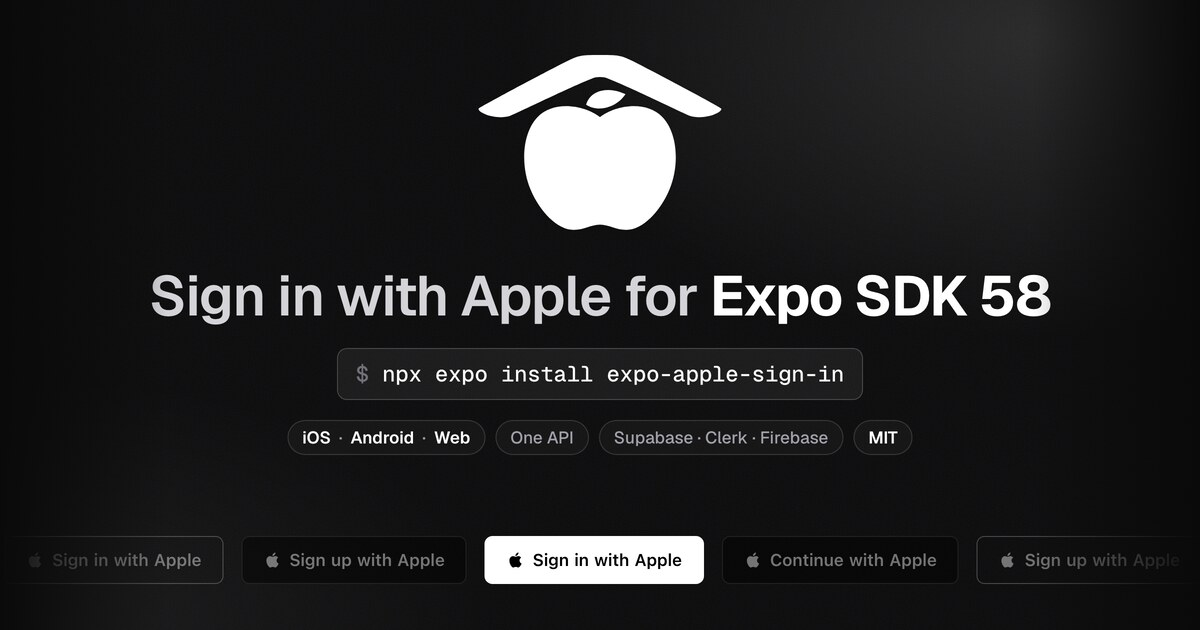
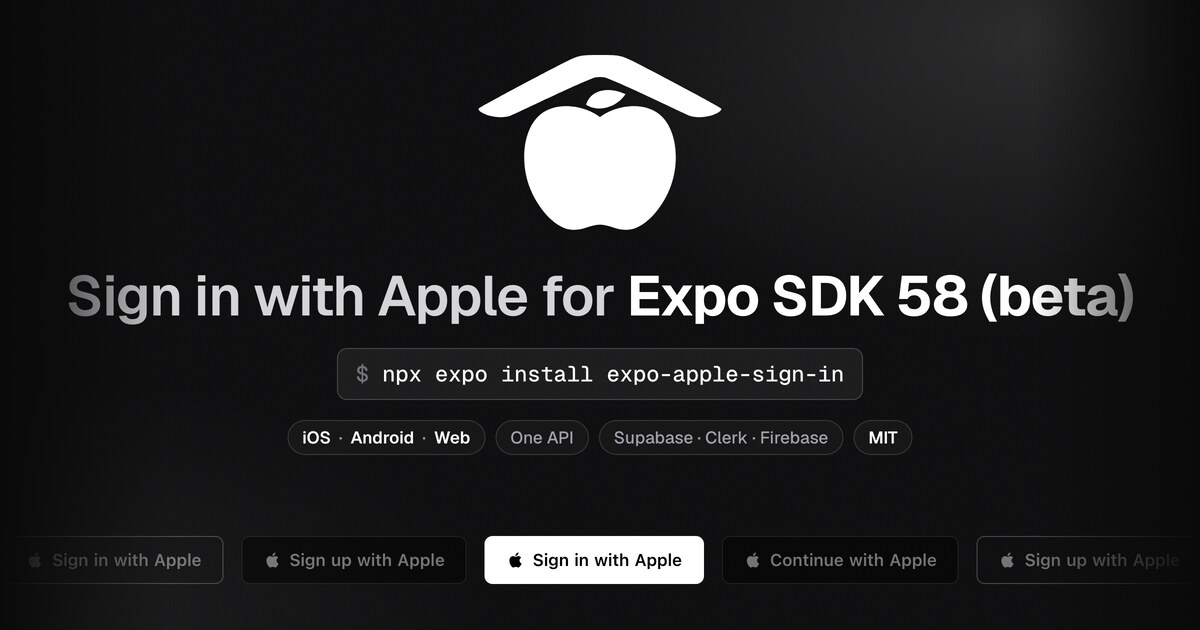
docs: mark sdk 58 beta and add demo

Changed region(s): [[0.0617, 0.4222, 0.9558, 0.5127]]

diff --git a/docs/.vitepress/og.html b/docs/.vitepress/og.html
@@ -24,7 +24,7 @@ h1 b{color:#fff;font-weight:700}
 </style></head><body><div class="bg"></div><div class="grain"></div>
 <div style="position:absolute;left:0;right:0;top:50px;text-align:center">
   <img src="../public/logo-dark.svg" style="width:252px;display:inline-block" alt="">
-  <h1 style="font-size:56px;margin-top:28px">Sign in with Apple for <b>Expo SDK 58</b></h1>
+  <h1 style="font-size:56px;margin-top:28px">Sign in with Apple for <b>Expo SDK 58 (beta)</b></h1>
   <div class="cmd" style="margin-top:24px"><span>$</span> npx expo install expo-apple-sign-in</div>
   <div style="display:flex;gap:10px;margin-top:20px;justify-content:center"><span class="chip"><b>iOS</b> · <b>Android</b> · <b>Web</b></span><span class="chip">One API</span><span class="chip">Supabase · Clerk · Firebase</span><span class="chip"><b>MIT</b></span></div>
 </div>

diff --git a/tests/docs.e2e.ts b/tests/docs.e2e.ts
@@ -5,8 +5,8 @@ test('home page', async ({ app, screen, browser }) => {
   await app.open('/')
 
   await expect(browser).toHaveTitle(/Expo Apple Sign In/, { timeout: 30_000 })
-  await expect(screen.getByText('Sign in with Apple for Expo SDK 58')).toBeVisible()
-  await expect(screen.getByText('Requires Expo SDK 58.')).toBeVisible()
+  await expect(screen.getByText('Sign in with Apple for Expo SDK 58 (beta)')).toBeVisible()
+  await expect(screen.getByText('Requires Expo SDK 58 (beta).')).toBeVisible()
 })
 
 test('introduction page', async ({ app, screen, browser }) => {

diff --git a/README.md b/README.md
@@ -8,33 +8,34 @@
 <h1 align="center">expo-apple-sign-in</h1>
 
 <p align="center">
-  <strong>Sign in with Apple for Expo SDK 58.</strong><br />
+  <strong>Sign in with Apple for Expo SDK 58 (beta).</strong><br />
   One API and one Apple-style button for iOS, Android and web, with adapters for Supabase, Clerk and Firebase
 </p>
 
 <p align="center">
   <a href="https://www.npmjs.com/package/expo-apple-sign-in"><img src="https://img.shields.io/npm/v/expo-apple-sign-in?style=flat-square" alt="npm version" /></a>
   <a href="LICENSE"><img src="https://img.shields.io/badge/license-MIT-green?style=flat-square" alt="License: MIT" /></a>
-  <a href="https://expo.dev/"><img src="https://img.shields.io/badge/Expo%20SDK-58-000020?style=flat-square&logo=expo&logoColor=white" alt="Expo SDK 58" /></a>
+  <a href="https://expo.dev/"><img src="https://img.shields.io/badge/Expo%20SDK-58%20%28beta%29-000020?style=flat-square&logo=expo&logoColor=white" alt="Expo SDK 58 (beta)" /></a>
   <img src="https://img.shields.io/badge/platforms-iOS%20%7C%20Android%20%7C%20Web-4630EB?style=flat-square" alt="Platforms: iOS, Android, Web" />
 </p>
 
 <p align="center">
   <a href="https://exsi.smartsquad.io/">Documentation</a> ·
   <a href="https://exsi.smartsquad.io/getting-started/quick-start.html">Quick start</a> ·
+  <a href="#demo">Demo</a> ·
   <a href="https://exsi.smartsquad.io/providers/supabase.html">Providers</a> ·
   <a href="https://exsi.smartsquad.io/comparison.html">Comparison</a> ·
   <a href="https://github.com/smartsquad/expo-apple-sign-in/blob/main/CHANGELOG.md">Changelog</a>
 </p>
 
 <p align="center">
-  <img src="docs/public/og.png" alt="expo-apple-sign-in. Sign in with Apple for Expo SDK 58." width="800" />
+  <img src="docs/public/og.png" alt="expo-apple-sign-in. Sign in with Apple for Expo SDK 58 (beta)." width="800" />
 </p>
 
 ---
 
 > [!IMPORTANT]
-> **Expo SDK 58 only.** The native code is written with Expo Modules 2.0 (`@ExpoModule` and `@JS`), which earlier SDKs do not support. Expo Go cannot load the native module, so iOS and Android need a development build.
+> **Expo SDK 58 (beta) only.** The native code is written with Expo Modules 2.0 (`@ExpoModule` and `@JS`), which earlier SDKs do not support. Expo Go cannot load the native module, so iOS and Android need a development build.
 
 ## Install
 
@@ -91,6 +92,39 @@ export default function App(): ReactElement {
 
 `AppleAuth.signIn()`, which the button calls, returns the same credential on every platform. It hashes the nonce with SHA-256 before sending it to Apple and puts the raw nonce on `credential.nonce`, which is the value Supabase and Firebase check against the identity token. Do not hash it again.
 
+## Demo
+
+The [`example`](example/) folder is a single-screen Expo SDK 58 (beta) app that installs this package from the parent folder (`file:..`) and shows `AppleButton`. iOS and Android need a development build. Expo Go cannot load the native module.
+
+From the repository root:
+
+```bash
+npm install
+cd example
+npm install
+npx expo run:ios
+```
+
+`npx expo run:ios` compiles the development client and opens it on a simulator or a device. Android is the same kind of build:
+
+```bash
+npx expo run:android
+```
+
+Web does not need a native build. From `example/`:
+
+```bash
+npx expo start --web --port 43180 --host lan
+```
+
+Android and web read `EXPO_PUBLIC_APPLE_SERVICE_ID` and `EXPO_PUBLIC_APPLE_REDIRECT_URI`, either exported in the shell or written in `example/.env`. iOS signs in with the app's App ID. Set `ios.bundleIdentifier` in `example/app.json` to an App ID that has Sign in with Apple enabled, then rebuild. The same steps are on the [demo page](https://exsi.smartsquad.io/examples.html).
+
+<p align="center">
+  <img src="docs/public/screenshots/example-ios.png" alt="The example app on an iPhone 17 Pro simulator, showing the platform, availability, the black Sign in with Apple button and the status line" width="220" />
+  <img src="docs/public/screenshots/example-android.png" alt="The example app on an Android emulator, showing the platform, availability, the black Sign in with Apple button and the status line" width="220" />
+  <img src="docs/public/screenshots/example-web.png" alt="The example app in a browser, showing the platform, availability, the black Sign in with Apple button and the status line" width="220" />
+</p>
+
 ## Providers
 
 Each adapter runs Sign in with Apple and hands the result to your auth service in one call:
@@ -103,11 +137,11 @@ Each adapter runs Sign in with Apple and hands the result to your auth service i
 
 Sign in with Apple works differently on each platform: iOS shows a native sheet, while Android and web have to go through Apple's web flow with a Services ID. This package puts those paths behind one call and one credential shape, so the code that talks to your backend is the same on iOS, Android and web. It also handles the nonce for you and ships adapters for the three common auth providers. The [comparison](https://exsi.smartsquad.io/comparison.html) shows how it relates to other Sign in with Apple packages for React Native and Expo.
 
-Google Sign-In is not this package. [react-native-nitro-google-signin](https://react-native-nitro-google-sign-in.github.io/) is the library to use for that, on Android Credential Manager and on iOS. If the app needs Sign in with Apple and cannot take Expo SDK 58, [@invertase/react-native-apple-authentication](https://github.com/invertase/react-native-apple-authentication) is the one to use, including its Android module. Both are good libraries.
+Google Sign-In is not this package. [react-native-nitro-google-signin](https://react-native-nitro-google-sign-in.github.io/) is the library to use for that, on Android Credential Manager and on iOS. If the app needs Sign in with Apple and cannot take Expo SDK 58 (beta), [@invertase/react-native-apple-authentication](https://github.com/invertase/react-native-apple-authentication) is the one to use, including its Android module. Both are good libraries.
 
 ## Documentation
 
-The [documentation site](https://exsi.smartsquad.io/) covers [requirements](https://exsi.smartsquad.io/getting-started/requirements.html), the [Apple Developer setup](https://exsi.smartsquad.io/setup/apple-developer.html) for each platform, [usage](https://exsi.smartsquad.io/guides/usage.html), [backend verification](https://exsi.smartsquad.io/guides/backend.html), the [API reference](https://exsi.smartsquad.io/reference/api.html) and [troubleshooting](https://exsi.smartsquad.io/reference/troubleshooting.html). The `example` folder contains a single-screen app that runs on all three platforms.
+The [documentation site](https://exsi.smartsquad.io/) covers [requirements](https://exsi.smartsquad.io/getting-started/requirements.html), the [Apple Developer setup](https://exsi.smartsquad.io/setup/apple-developer.html) for each platform, [usage](https://exsi.smartsquad.io/guides/usage.html), [backend verification](https://exsi.smartsquad.io/guides/backend.html), the [API reference](https://exsi.smartsquad.io/reference/api.html) and [troubleshooting](https://exsi.smartsquad.io/reference/troubleshooting.html). The [demo](#demo) runs the same sign-in screen from [`example/`](example/).
 
 ## Contributing
 

diff --git a/docs/comparison.md b/docs/comparison.md
@@ -3,7 +3,7 @@
 This page compares `expo-apple-sign-in` 1.1.0 with three packages that React Native and React web apps use for Sign in with Apple: `expo-apple-authentication` 58.0.2, `@invertase/react-native-apple-authentication` 2.5.1, and `react-apple-signin-auth` 1.2.1. It covers platform support, native layers, nonce handling, the JavaScript each package adds to an app bundle, and what an app has to install to reach iOS, Android, and web. Every statement comes from the published package files or from a measurement described in [How we measured](#how-we-measured). The page also lists the cases where another package fits better.
 
 ::: info Versions
-All figures come from the package versions named above, including the `expo-apple-sign-in` size figures, which were measured on 1.1.0. `expo-apple-sign-in` 1.1.0 is published on npm at [npmjs.com/package/expo-apple-sign-in](https://www.npmjs.com/package/expo-apple-sign-in). `expo-apple-authentication` 58.0.2 is the version bundled with Expo SDK 58.
+All figures come from the package versions named above, including the `expo-apple-sign-in` size figures, which were measured on 1.1.0. `expo-apple-sign-in` 1.1.0 is published on npm at [npmjs.com/package/expo-apple-sign-in](https://www.npmjs.com/package/expo-apple-sign-in). `expo-apple-authentication` 58.0.2 is the version bundled with Expo SDK 58 (beta).
 :::
 
 ## At a glance
@@ -86,7 +86,7 @@ The sums count each package once for the target it serves. The native figure for
 - A web-only React app. `react-apple-signin-auth` needs `react` and `react-dom` as its only peer dependencies, adds 2,620 bytes gzipped in the web bundle, and loads Apple's script from Apple's CDN.
 - An iOS-only app that already works. If it hashes its own nonce and uses the system button, a move adds no platform coverage. The [migration page](/migration/expo-apple-authentication) lists what changes.
 
-## Google Sign-In, and Apple without Expo 58
+## Google Sign-In, and Apple without Expo 58 (beta) {#google-sign-in-and-apple-without-expo-58}
 
 This package already signs in with Apple on Android. A Kotlin activity opens Apple's authorize page in a WebView. It does not sign in with Google, and it does not run on Expo SDK 57 or on React Native without Expo.
 
@@ -94,7 +94,7 @@ Two other libraries cover those jobs, and both are good.
 
 [`react-native-nitro-google-signin`](https://react-native-nitro-google-sign-in.github.io/) is Google Sign-In on Nitro Modules. Version 2.3.0 is MIT licensed. Android uses Credential Manager, and iOS uses the Google Sign-In SDK. It is the Google library to install next to this one.
 
-[`@invertase/react-native-apple-authentication`](https://github.com/invertase/react-native-apple-authentication) is Sign in with Apple for React Native, including a separate Android module, `appleAuthAndroid`. Version 2.5.1 is Apache-2.0, copyright Invertase Limited. Use it when the app cannot take Expo SDK 58. The [migration page](/migration/invertase) is for apps that are leaving it.
+[`@invertase/react-native-apple-authentication`](https://github.com/invertase/react-native-apple-authentication) is Sign in with Apple for React Native, including a separate Android module, `appleAuthAndroid`. Version 2.5.1 is Apache-2.0, copyright Invertase Limited. Use it when the app cannot take Expo SDK 58 (beta). The [migration page](/migration/invertase) is for apps that are leaving it.
 
 ## How we measured
 

diff --git a/docs/getting-started/compatibility.md b/docs/getting-started/compatibility.md
@@ -1,12 +1,12 @@
 # Compatibility
 
-`expo-apple-sign-in` runs on iOS, Android and web in Expo SDK 58 projects that use development builds or EAS Build. The table below shows which environments work and what each one needs, and the sections after it explain the SDK 58 limit and the browser behavior on web.
+`expo-apple-sign-in` runs on iOS, Android and web in Expo SDK 58 (beta) projects that use development builds or EAS Build. The table below shows which environments work and what each one needs, and the sections after it explain the SDK 58 (beta) limit and the browser behavior on web.
 
 ## Support table
 
 | Environment | Supported | Notes |
 | --- | --- | --- |
-| Expo SDK 58 | Yes | The only SDK the library targets. |
+| Expo SDK 58 (beta) | Yes | The only SDK the library targets. |
 | Expo SDK 57 and earlier | No | These SDKs lack the Expo Modules 2.0 API that the native code is written with. |
 | Expo Go | No | Expo Go cannot load the library's native module, `ExpoAppleSignIn`. |
 | Development builds | Yes | Build with `npx expo run:ios` or `npx expo run:android` after adding the config plugin. |
@@ -17,9 +17,9 @@
 
 Some behavior differs by platform. Only iOS reports a credential state and revocation: on Android and web, `AppleAuth.getCredentialState` always returns `'unknown'`, and `AppleAuth.addRevokeListener` returns a subscription whose listener never runs. Only iOS fills `middleName`, `namePrefix`, `nameSuffix`, and `nickname`, and the other platforms return `null` for them. iOS and Android run one sign-in at a time, so a second `signIn` call while the first is open rejects with `ERR_REQUEST_FAILED`.
 
-## Why only SDK 58
+## Why only SDK 58 (beta)
 
-The native modules are written with the Expo Modules 2.0 API that ships with SDK 58, and earlier SDKs do not support it. The Swift and Kotlin modules declare their functions with `@ExpoModule` and `@JS`, the Android build file turns on Modules 2.0 with `expoModule { v2 true }`, and Android registers the module through the Modules 2.0 generated module list. The iOS errors use the SDK 58 `Exception(name:description:code:)` initializer, which is how codes such as `ERR_REQUEST_CANCELED` reach JavaScript. The library has no code path for the older module API, so it cannot fall back on an earlier SDK.
+The native modules are written with the Expo Modules 2.0 API that ships with SDK 58 (beta), and earlier SDKs do not support it. The Swift and Kotlin modules declare their functions with `@ExpoModule` and `@JS`, the Android build file turns on Modules 2.0 with `expoModule { v2 true }`, and Android registers the module through the Modules 2.0 generated module list. The iOS errors use the SDK 58 (beta) `Exception(name:description:code:)` initializer, which is how codes such as `ERR_REQUEST_CANCELED` reach JavaScript. The library has no code path for the older module API, so it cannot fall back on an earlier SDK.
 
 ## Web browser notes
 

diff --git a/docs/getting-started/requirements.md b/docs/getting-started/requirements.md
@@ -1,12 +1,12 @@
 # Requirements
 
-`expo-apple-sign-in` needs an Expo SDK 58 project that runs as a development build, an Apple Developer Program membership, and the Apple identifiers for each platform you ship. Check the list below before you install the package, because a missing identifier only shows up later as a sign-in error.
+`expo-apple-sign-in` needs an Expo SDK 58 (beta) project that runs as a development build, an Apple Developer Program membership, and the Apple identifiers for each platform you ship. Check the list below before you install the package, because a missing identifier only shows up later as a sign-in error.
 
 ## Expo, React and React Native
 
-The library targets **Expo SDK 58** only. Its Swift and Kotlin modules are written with the Expo Modules 2.0 API, which earlier SDKs do not support, so the package cannot run on SDK 57 or older. The [Compatibility](/getting-started/compatibility) page lists the supported environments.
+The library targets **Expo SDK 58 (beta)** only. Its Swift and Kotlin modules are written with the Expo Modules 2.0 API, which earlier SDKs do not support, so the package cannot run on SDK 57 or older. The [Compatibility](/getting-started/compatibility) page lists the supported environments.
 
-The package declares `react` and `react-native` as peer dependencies without a version range, so it uses the versions your Expo SDK 58 project installs. The example app in the repository runs on these versions:
+The package declares `react` and `react-native` as peer dependencies without a version range, so it uses the versions your Expo SDK 58 (beta) project installs. The example app in the repository runs on these versions:
 
 | Package | Version in `example/package.json` |
 | --- | --- |
@@ -24,7 +24,7 @@ iOS and Android need a development build that includes the library's native modu
 | Platform | Minimum | Where it comes from |
 | --- | --- | --- |
 | iOS | iOS 16.4 | The deployment target in `ios/ExpoAppleSignIn.podspec`. |
-| Android | Set by your Expo SDK 58 project | `android/build.gradle` declares no `minSdkVersion`, `compileSdkVersion` or `targetSdkVersion`. It applies `expo-module-gradle-plugin`, so the module builds with the SDK levels of the app that includes it. |
+| Android | Set by your Expo SDK 58 (beta) project | `android/build.gradle` declares no `minSdkVersion`, `compileSdkVersion` or `targetSdkVersion`. It applies `expo-module-gradle-plugin`, so the module builds with the SDK levels of the app that includes it. |
 | Web | A browser page with a `document` | The library adds Apple's JavaScript SDK to the page with a `<script>` tag when sign-in starts. |
 
 ## Apple account and identifiers

diff --git a/docs/examples.md b/docs/examples.md
@@ -1,6 +1,6 @@
-# Examples
+# Demo
 
-The repository includes an example app in the `example` folder. It is a single-screen Expo SDK 58 app that installs `expo-apple-sign-in` from the parent folder (`file:..`), so it always runs against the library source in the same checkout. The screen shows the platform, the result of `AppleAuth.isAvailable()`, an `AppleButton`, and a status line that reports the outcome of each sign-in. The platform line, the button, and the status line carry the test IDs `platform-meta`, `sign-in-button`, and `status-message`, so end-to-end tests can find them.
+The repository includes an example app in the [`example`](https://github.com/smartsquad/expo-apple-sign-in/tree/main/example) folder. It is a single-screen Expo SDK 58 (beta) app that installs `expo-apple-sign-in` from the parent folder (`file:..`), so it always runs against the library source in the same checkout. The screen shows the platform, the result of `AppleAuth.isAvailable()`, an `AppleButton`, and a status line that reports the outcome of each sign-in. The platform line, the button, and the status line carry the test IDs `platform-meta`, `sign-in-button`, and `status-message`, so end-to-end tests can find them.
 
 ## What the example shows
 
@@ -15,15 +15,28 @@ The app uses the black button style, the `signIn` label, and a button that stret
 
 ## Run the example
 
-Install the library's dependencies at the repository root, then the example's own dependencies:
+iOS and Android need a development build. Expo Go cannot load the native module. From the repository root:
 
 ```bash
 npm install
 cd example
 npm install
+npx expo run:ios
 ```
 
-Then start the platform you want to test:
+`npx expo run:ios` compiles the development client and opens it on a simulator or a device. Android is the same kind of build:
+
+```bash
+npx expo run:android
+```
+
+Web needs no native build. From `example/`:
+
+```bash
+npx expo start --web --port 43180 --host lan
+```
+
+The `example/package.json` scripts call the same commands:
 
 | Script | Command | What it does |
 | --- | --- | --- |
@@ -31,8 +44,6 @@ Then start the platform you want to test:
 | `npm run android` | `expo run:android` | Builds the development client and runs it on an Android emulator or device. |
 | `npm run web` | `expo start --web --port 43180 --host lan` | Serves the web app on port 43180. |
 | `npm run start` | `expo start` | Starts the Expo dev server. |
-
-iOS and Android need a development build because Expo Go cannot load the native module. Web needs no native build.
 
 ## Configure Android and web
 

diff --git a/docs/intro.md b/docs/intro.md
@@ -2,8 +2,8 @@
 
 `expo-apple-sign-in` adds Sign in with Apple to an Expo app on iOS, Android and web through one JavaScript API. You call `AppleAuth.signIn()` or render `AppleButton`, and each platform resolves with the same credential: Apple's identity token, the authorization code, the raw nonce, the state and whatever user details Apple shared.
 
-::: warning Expo SDK 58 only
-**expo-apple-sign-in requires Expo SDK 58.** Its native code is written with the Expo Modules 2.0 API (`@ExpoModule` and `@JS`), which earlier SDKs do not support. Expo Go cannot load the native module either, so iOS and Android need a development build.
+::: warning Expo SDK 58 (beta) only
+**expo-apple-sign-in requires Expo SDK 58 (beta).** Its native code is written with the Expo Modules 2.0 API (`@ExpoModule` and `@JS`), which earlier SDKs do not support. Expo Go cannot load the native module either, so iOS and Android need a development build.
 :::
 
 ## Why the library exists
@@ -44,4 +44,4 @@ The package also exports its TypeScript types, such as `AppleCredential`, `Apple
 
 Start with [Requirements](/getting-started/requirements) and [Installation](/getting-started/installation), then follow the [Quick start](/getting-started/quick-start) to get a first credential on screen. If you are deciding between Sign in with Apple libraries, the [Comparison](/comparison) page sets `expo-apple-sign-in` beside `expo-apple-authentication`, `@invertase/react-native-apple-authentication`, and `react-apple-signin-auth`.
 
-Google Sign-In is a different package. The comparison page names [`react-native-nitro-google-signin`](/comparison#google-sign-in-and-apple-without-expo-58) for that, and names Invertase's Apple library for apps that are not on Expo SDK 58. Both are good libraries.
+Google Sign-In is a different package. The comparison page names [`react-native-nitro-google-signin`](/comparison#google-sign-in-and-apple-without-expo-58) for that, and names Invertase's Apple library for apps that are not on Expo SDK 58 (beta). Both are good libraries.

diff --git a/docs/agents/skill.md b/docs/agents/skill.md
@@ -6,7 +6,7 @@ The repository includes an agent skill, a Markdown file that tells an AI coding 
 
 The skill lives at `skills/expo-apple-sign-in/SKILL.md`. Its frontmatter names it `expo-apple-sign-in` and tells an agent to use it when adding Apple auth, replacing `expo-apple-authentication`, or wiring Clerk, Supabase, or Firebase. The body has these sections:
 
-- Install: Run `npx expo install expo-apple-sign-in`, add `"expo-apple-sign-in"` to `expo.plugins`, and rebuild with `npx expo prebuild` and `npx expo run:ios` or `npx expo run:android`. The skill states that the library needs Expo SDK 58 and that Expo Go cannot load it.
+- Install: Run `npx expo install expo-apple-sign-in`, add `"expo-apple-sign-in"` to `expo.plugins`, and rebuild with `npx expo prebuild` and `npx expo run:ios` or `npx expo run:android`. The skill states that the library needs Expo SDK 58 (beta) and that Expo Go cannot load it.
 - API: The section shows the imports (`AppleAuth`, `AppleButton`, `useAppleAuth`, and the adapters) and the `AppleAuth.configure` call for Android and web. Its first rules say that iOS uses the native `AuthenticationServices` framework and needs no Services ID, that Android and web need a Services ID and an HTTPS redirect URI, and that the library hashes the nonce and returns the raw one. Further rules explain how a cancel surfaces from `signIn` and from `request`, what `isAvailable`, `toFirebaseAppleCredential`, `getCredentialState`, and `addRevokeListener` return, and that only iOS calls the revoke listener. The last rules cover the limit of one sign-in at a time on iOS and Android, the click handler that the web popup needs, and the name fields that only iOS fills.
 - Supabase: `signInWithSupabase(supabase)` runs `AppleAuth.signIn()` and `supabase.auth.signInWithIdToken`. The skill warns against calling it from the `onSuccess` of `AppleButton`.
 - Clerk: `signInWithClerk({ signIn, signUp, setActive })` uses the `oauth_token_apple` strategy.

diff --git a/docs/index.md b/docs/index.md
@@ -3,7 +3,7 @@ layout: home
 
 hero:
   name: expo-apple-sign-in
-  text: Sign in with Apple for Expo SDK 58
+  text: Sign in with Apple for Expo SDK 58 (beta)
   tagline: One API and one Apple-style button for iOS, Android and web, with adapters for Supabase, Clerk and Firebase.
   image:
     light: /logo-light.svg
@@ -36,11 +36,11 @@ features:
   <span class="platform-badge">iOS</span>
   <span class="platform-badge">Android</span>
   <span class="platform-badge">Web</span>
-  <span class="platform-badge">Expo SDK 58</span>
+  <span class="platform-badge">Expo SDK 58 (beta)</span>
   <span class="platform-badge">Modules 2.0</span>
 </div>
 
-<p class="sdk-notice"><strong>Requires Expo SDK 58.</strong> expo-apple-sign-in is built on Expo Modules 2.0, which earlier SDKs do not support, and Expo Go cannot load it, so iOS and Android need a development build.</p>
+<p class="sdk-notice"><strong>Requires Expo SDK 58 (beta).</strong> expo-apple-sign-in is built on Expo Modules 2.0, which earlier SDKs do not support, and Expo Go cannot load it, so iOS and Android need a development build.</p>
 
 ## Sign in with one component
 

diff --git a/docs/providers/clerk.md b/docs/providers/clerk.md
@@ -29,7 +29,7 @@ bunx expo install @clerk/expo expo-secure-store
 :::
 
 ::: info Peer dependency range
-`@clerk/expo` 4.10.1 declares `expo` as `>=54 <58` in its peer dependencies, so npm reports a conflict on Expo SDK 58. The adapter does not call any Clerk native code. It only uses the `signIn`, `signUp`, and `setActive` objects from the JavaScript hooks, so `--legacy-peer-deps` lets npm install the package despite the range.
+`@clerk/expo` 4.10.1 declares `expo` as `>=54 <58` in its peer dependencies, so npm reports a conflict on Expo SDK 58 (beta). The adapter does not call any Clerk native code. It only uses the `signIn`, `signUp`, and `setActive` objects from the JavaScript hooks, so `--legacy-peer-deps` lets npm install the package despite the range.
 :::
 
 ## Configure the Clerk dashboard

diff --git a/docs/getting-started/installation.md b/docs/getting-started/installation.md
@@ -1,6 +1,6 @@
 # Installation
 
-**expo-apple-sign-in requires Expo SDK 58.** The native code is written with Expo Modules 2.0, which earlier SDKs do not support, and Expo Go cannot load it, so iOS and Android need a development build.
+**expo-apple-sign-in requires Expo SDK 58 (beta).** The native code is written with Expo Modules 2.0, which earlier SDKs do not support, and Expo Go cannot load it, so iOS and Android need a development build.
 
 Installing the library takes three steps: add the package, register its config plugin, and rebuild the native app so the new module and the Sign in with Apple entitlement are compiled in. Afterwards, `AppleAuth.isAvailable()` tells you whether the module loaded.
 
